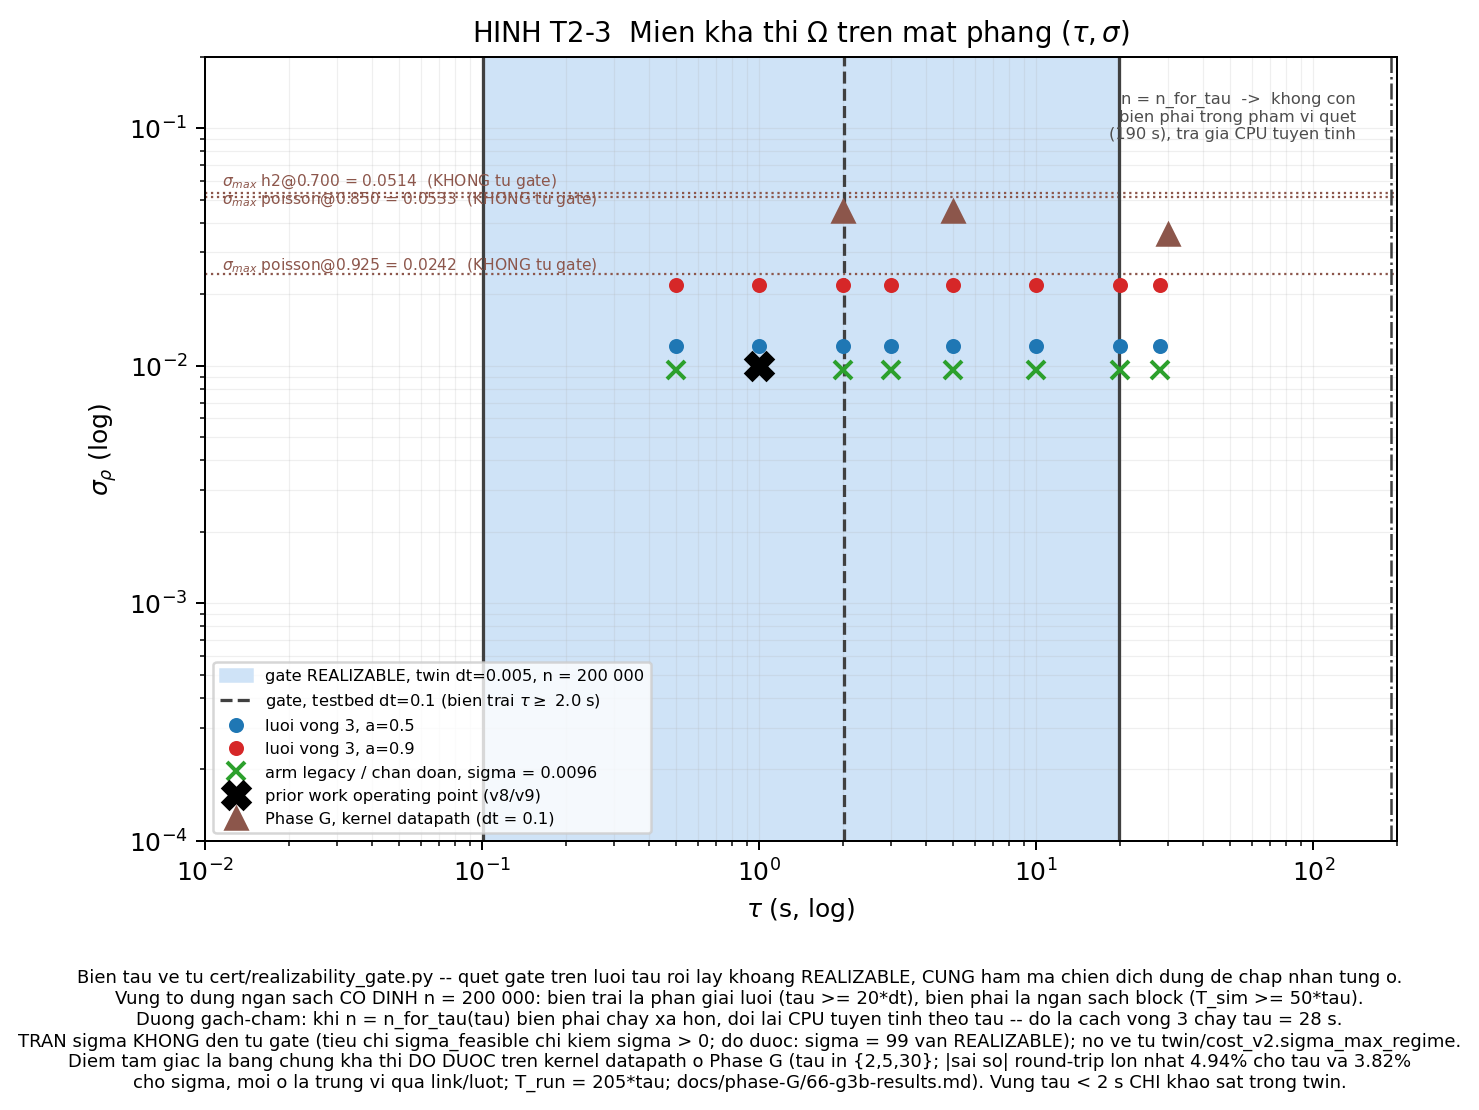
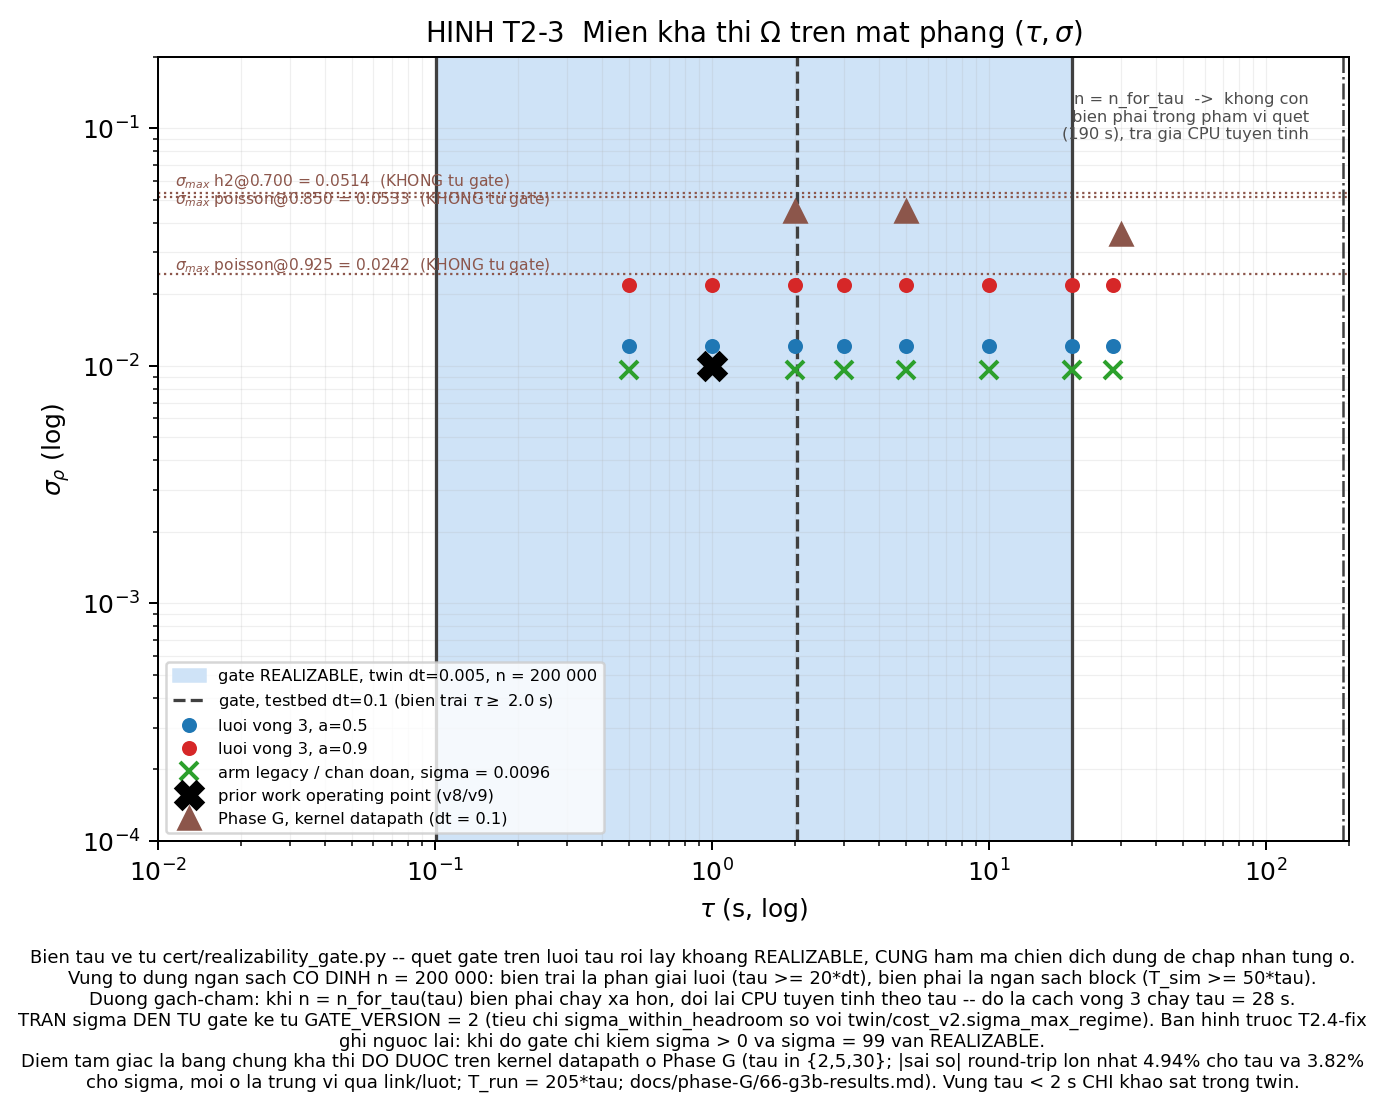
T2.4-fix: gate v2 -- tieu chi headroom that su duoc thuc thi
LOI. `sigma_feasible` chi kiem `sigma > 0`. Vi cert/tau_sweep.py:500 truyen
vao sigma THIET KE (a*sigma_max hoac sigma_override) von luon duong, tieu chi
nay KHONG BAO GIO fail duoc tren duong chay that. Do duoc truoc khi sua:
    (cbr,     rho=0.96,  sigma=0.05) -> REALIZABLE   (sigma_max = 0.0)
    (poisson, rho=0.925, sigma=99.0) -> REALIZABLE
Thong diep `why` nhac toi sigma_max_regime nhung ham do KHONG he duoc goi:
`from twin import cost_v2 as C` la dead import, `grep -c "C\."` = 0.

HE QUA. Bo test cu phu HAI loai tu choi (phan giai dt, ngan sach block); loai
thu BA -- headroom -- chua bao gio duoc viet thanh test, nen tieu chi tuong
ung song ba vong sweep ma khong ai biet no khong hoat dong. prereg:388 dua
vao gate nay de LOAI o ("LOAI moi o bi realizability_gate tu choi").

CHU Y VE TEN: khong co ma cong "G-T2-6" nao trong repo (grep = 0); prereg
dung ma T2.2-1..9 va chi co G-T2-8. Nen day duoc khai la mot KHIEM KHUYET
CUA GATE phat hien sau khi dong phase, KHONG phai mot cong da ky bi truot.

SUA. `sigma_feasible` -> `sigma_within_headroom`, so `0 < sigma <=
sigma_max_regime(mode, rho_bar)`. Tran duoc IMPORT tu MOT nguon qua helper
`_sigma_max_or_nan`, dung chung boi tieu chi va `derived` [W4 ban giao T2].
Doi ten vi ten cu khong noi dung viec no lam [NT 65]. Them GATE_VERSION = 2
va `derived.sigma_max_regime` de artifact TU CHUNG MINH no so voi cai gi.
Docstring dong dinh: `sigma` la GIA TRI THIET KE, khong phai tran -- ban v1
[…]

diff --git a/test/test_t2_realizability_gate.py b/test/test_t2_realizability_gate.py
@@ -12,6 +12,7 @@ import pytest
 
 from cert.realizability_gate import (
     CLIP_MAX,
+    GATE_VERSION,
     OMEGA_MAX,
     gate_grid,
     min_blocks,
@@ -21,6 +22,7 @@ from cert.realizability_gate import (
 )
 from cert.simultaneous_score import ALPHA
 from measurements.sla_calib_v2 import n_for_tau
+from twin.cost_v2 import sigma_max_regime
 
 DT = 0.005
 BASE = dict(mode="poisson", rho_bar=0.925, dt=DT)
@@ -85,9 +87,9 @@ def test_unevaluated_criteria_are_not_silently_passed():
     """
     r = realizability_gate(tau=1.0, n=200_000, **BASE)
     assert r["checks"]["censoring_ok"]["pass"] is None
-    assert r["checks"]["sigma_feasible"]["pass"] is None
+    assert r["checks"]["sigma_within_headroom"]["pass"] is None
     assert r["checks"]["mondrian_cells_populated"]["pass"] is None
-    assert set(r["not_evaluated"]) == {"censoring_ok", "sigma_feasible",
+    assert set(r["not_evaluated"]) == {"censoring_ok", "sigma_within_headroom",
                                        "mondrian_cells_populated"}
 
 
@@ -109,7 +111,7 @@ def test_censoring_and_sigma_are_enforced_when_supplied():
     assert ok["verdict"] == "REALIZABLE"
     bad = realizability_gate(tau=1.0, n=200_000, sigma=0.0,
                              clip_fraction=0.05, **BASE)
-    assert set(bad["failed"]) == {"censoring_ok", "sigma_feasible"}
+    assert set(bad["failed"]) == {"censoring_ok", "sigma_within_headroom"}
     assert CLIP_MAX == 0.01
 
 
@@ -168,3 +170,83 @@ def test_gate_grid_reports_why_cells_were_rejected():
     g = gate_grid(cells, **BASE)
     assert g["n_cells"] == 3 and g["n_rejected"] == 1
     assert g["rejected_by_reason"]["enough_blocks"] == 1
+
+
+# ---------------------------------------------------------------------------
+# T2.4-fix: bon test ghim con thieu cho tieu chi HEADROOM.
+#
+# Bo test cu phu HAI loai tu choi: phan giai (`tau_resolves_dt`) va ngan sach
+# block (`run_covers_tau` / `enough_blocks`). Loai thu BA -- headroom -- chua
+# bao gio duoc viet, nen tieu chi tuong ung song ba vong sweep ma khong ai
+# biet no khong hoat dong: no chi kiem `sigma > 0`, va cert/tau_sweep.py luon
+# truyen vao mot sigma duong.
+#
+# Bon test duoi day la DOI CHUNG DUONG CHO CHINH GATE: chung chung minh gate
+# CO THE do vi dung ly do. Mot gate khong bao gio do duoc thi khong phai gate.
+# ---------------------------------------------------------------------------
+
+def test_headroom_rejects_a_cell_with_no_headroom_left():
+    """(cbr, rho_bar=0.96, sigma=0.05) PHAI bi tu choi.
+
+    Vi sao, suy tu tham so vat ly chu khong tu code:
+        RELIABLE_CEILING["cbr"] = 0.95  <  rho_bar = 0.96
+        => moi link da NAM TREN tran do tin cay ngay ca khi sigma = 0
+        => sigma_max_regime("cbr", 0.96) = 0.0
+        => KHONG co bien do nao hop le. O nay khong sinh duoc.
+    Do duoc TRUOC ban sua: verdict = REALIZABLE, failed = [].
+    """
+    smax = sigma_max_regime("cbr", 0.96)
+    assert smax == 0.0, "tien de cua test doi: RELIABLE_CEILING da bi sua?"
+
+    r = realizability_gate(mode="cbr", rho_bar=0.96, tau=3.0, dt=DT,
+                           n=200_000, sigma=0.05)
+    assert r["verdict"] == "REJECTED", r["checks"]["sigma_within_headroom"]
+    assert "sigma_within_headroom" in r["failed"]
+    # artifact phai TU CHUNG MINH no so voi cai gi, khong bat ai tin ten check
+    assert r["derived"]["sigma_max_regime"] == 0.0
+    assert r["derived"]["gate_version"] == GATE_VERSION
+
+
+def test_a_physically_absurd_sigma_cannot_pass():
+    """Doi chung duong tho: sigma = 99 phai bi chan.
+
+    Truoc ban sua day la ket qua DO DUOC: REALIZABLE. Test nay ton tai de
+    tinh trang do khong quay lai ma khong ai thay.
+    """
+    r = realizability_gate(mode="poisson", rho_bar=0.925, tau=3.0, dt=DT,
+                           n=200_000, sigma=99.0)
+    assert r["verdict"] == "REJECTED"
+    assert "sigma_within_headroom" in r["failed"]
+
+
+def test_headroom_boundary_is_inclusive_above_and_open_below():
+    """Bien tren DONG (sigma <= sigma_max), bien duoi MO (sigma > 0).
+
+    Vi sao dong o tren: sigma = sigma_max la a = 1.0, tuc dung cham tran --
+    van sinh duoc, chi la khong con du tru. Vi sao mo o duoi: sigma = 0
+    khong phai "an toan"; no nghia la HET headroom (sigma_max = 0), dung
+    truong hop cua cbr@0.96.
+    """
+    smax = sigma_max_regime("poisson", 0.925)
+    kw = dict(mode="poisson", rho_bar=0.925, tau=3.0, dt=DT, n=200_000)
+
+    assert realizability_gate(sigma=smax, **kw)["verdict"] == "REALIZABLE"
+    assert realizability_gate(sigma=smax * 1.001, **kw)["verdict"] == "REJECTED"
+    assert realizability_gate(sigma=0.0, **kw)["verdict"] == "REJECTED"
+
+
+def test_the_signed_sigma_axis_of_round_three_stays_inside_headroom():
+    """Truc sigma DA KY cua vong 3 (a in {0.5, 0.9}) phai qua sach.
+
+    Neu test nay do, ban vua lam vo mot phan quyet DA KY -- dung lai va doc
+    lai QD-7, dung noi long tieu chi.
+    """
+    for mode in ("poisson", "h2"):
+        for rb in (0.700, 0.850, 0.925, 0.960):
+            smax = sigma_max_regime(mode, rb)
+            if smax == 0.0:
+                continue                       # o suy bien, loai theo QD-3/QD-7
+            for a in (0.5, 0.9):
+                r = realizability_gate(mode=mode, rho_bar=rb, tau=3.0, dt=DT,
+                                       n=200_000, sigma=a * smax)
+                assert r["verdict"] == "REALIZABLE", (mode, rb, a, r["failed"])

diff --git a/cert/realizability_gate.py b/cert/realizability_gate.py
@@ -36,6 +36,27 @@ from twin import cost_v2 as C
 # V-T2-3, chot o T2.2. Do duoc tren toan luoi: < 0.09% moi o.
 CLIP_MAX = 0.01
 
+# Phien ban NGU NGHIA cua gate. Tang khi mot TIEU CHI doi nghia, khong tang
+# khi chi sua loi chinh ta. v1 -> v2: `sigma_feasible` (chi kiem sigma > 0,
+# mot tieu chi MA) duoc thay bang `sigma_within_headroom` (so voi
+# twin/cost_v2.sigma_max_regime). Moi artifact ghi so nay de mot nguoi doc
+# nam sau biet no duoc phan quyet bang THUOC NAO.
+GATE_VERSION = 2
+
+
+def _sigma_max_or_nan(mode, rho_bar) -> float:
+    """Tran headroom cua o, hoac NaN neu mode khong co trong registry.
+
+    Tach thanh ham vi no duoc dung o HAI cho (tieu chi va `derived`), va hai
+    cho do PHAI cho cung mot so  [W4 ban giao T2: mot nguon, import, khong chep].
+    NaN lam moi phep so sanh thanh False, nen mot mode la se KHONG duoc coi
+    la dat.
+    """
+    try:
+        return float(C.sigma_max_regime(str(mode), float(rho_bar)))
+    except (ValueError, KeyError):
+        return float("nan")
+
 # G-A020 giu mien dau vao 0 <= omega <= 1 sau khi rut truc omega doc lap.
 # Xem docs/phase-G/76-amendment-G-A020-omega-reduction.md muc T2.3.
 OMEGA_MIN, OMEGA_MAX = 0.0, 1.0
@@ -67,6 +88,12 @@ def realizability_gate(
     Tra ve dict co ``verdict`` in {"REALIZABLE", "REJECTED"} va ``checks``
     liet ke tung tieu chi kem so DO DUOC, de mot FAIL luon quy duoc trach
     nhiem cho dung tieu chi.
+
+    ``sigma`` la SIGMA THIET KE cua o (a*sigma_max, hoac sigma tuyet doi cua
+    arm legacy). KHONG phai sigma do duoc, KHONG phai tran. Gate TU tra tran
+    bang ``C.sigma_max_regime(mode, rho_bar)`` va so ``0 < sigma <= tran``.
+    Dong dinh o day de loi "mot ten hai nghia" khong tai phat: ban v1 ngam
+    gia dinh caller truyen vao TRAN, con caller thuc te truyen GIA TRI THIET KE.
 
     ``sigma`` va ``clip_fraction`` la tuy chon: neu khong truyen thi tieu
     chi tuong ung duoc ghi "not_evaluated" chu KHONG duoc coi la PASS.
@@ -101,12 +128,30 @@ def realizability_gate(
         float(omega), "[%g, %g]" % (OMEGA_MIN, OMEGA_MAX),
         "mien dau vao giu nguyen sau khi rut truc omega [G-A020]")
 
+    # --- T2.4-fix: tieu chi headroom, DUNG nhu prereg:388 gia dinh ---------
+    # Ban cu chi kiem `sigma > 0`. Do la mot tieu chi MA: cert/tau_sweep.py
+    # truyen vao sigma THIET KE (a*sigma_max hoac sigma_override), von luon
+    # duong, nen tieu chi KHONG BAO GIO fail duoc tren duong chay that.
+    # Do duoc truoc khi sua: (cbr, 0.96, sigma=0.05) -> REALIZABLE va
+    # (poisson, 0.925, sigma=99.0) -> REALIZABLE. Thong diep `why` cu nhac
+    # sigma_max_regime nhung ham do chua bao gio duoc goi: `from twin import
+    # cost_v2 as C` la dead import, `grep -c "C\."` = 0.
+    # Ten doi vi ten cu khong noi dung viec no lam  [NT 65].
     if sigma is None:
-        checks["sigma_feasible"] = {"pass": None, "got": None,
-                                    "need": "> 0", "why": "not_evaluated"}
+        checks["sigma_within_headroom"] = {
+            "pass": None, "got": None,
+            "need": "0 < sigma <= sigma_max_regime(mode, rho_bar)",
+            "why": "not_evaluated"}
     else:
-        add("sigma_feasible", float(sigma) > 0.0, float(sigma), "> 0",
-            "sigma_max_regime = 0 nghia la het headroom den tran do tin cay")
+        sigma_max = _sigma_max_or_nan(mode, rho_bar)
+        add("sigma_within_headroom",
+            0.0 < float(sigma) <= sigma_max,
+            float(sigma),
+            "in (0, %.6g]" % sigma_max,
+            "sigma > sigma_max_regime: o vuot TRAN DO TIN CAY cua traffic "
+            "family (RELIABLE_CEILING) hoac cham san RHO_MIN => rho(t) bi kep "
+            "lien tuc va sigma_hat/tau_hat deu lech. sigma = 0 nghia la het "
+            "headroom hoan toan (vi du cbr o rho_bar = 0.96).")
 
     if clip_fraction is None:
         checks["censoring_ok"] = {"pass": None, "got": None,
@@ -139,7 +184,11 @@ def realizability_gate(
                     "blocks_per_seed": blocks_per_seed,
                     "cycles": (t_sim / tau) if tau > 0 else float("nan"),
                     "min_blocks": mb,
-                    "blocks_per_tau": BLOCKS_PER_TAU},
+                    "blocks_per_tau": BLOCKS_PER_TAU,
+                    # tran headroom, DOC TU nguon, de artifact TU CHUNG MINH
+                    # no da so voi cai gi -- khong bat ai tin vao ten mot check
+                    "sigma_max_regime": _sigma_max_or_nan(mode, rho_bar),
+                    "gate_version": GATE_VERSION},
         "checks": checks,
         "failed": failed,
         "not_evaluated": not_eval,

diff --git a/tools/t2_6b_figures.py b/tools/t2_6b_figures.py
@@ -175,11 +175,15 @@ def _tau_window(dt: float, n_rule, sigma=0.02, taus=None):
 def fig3(runs):
     """Bien VE TU realizability_gate(), khong go lai bat dang thuc.
 
-    !! Gate KHONG chan tren theo sigma: tieu chi sigma_feasible chi kiem
-       sigma > 0 (do duoc: sigma = 99.0 van REALIZABLE). Nen tran sigma o
-       hinh nay ve RIENG tu twin/cost_v2.sigma_max_regime va PHAI duoc chu
-       thich la khong den tu gate. Ve no nhu mot bien cua gate la noi doi
-       bang hinh.
+    Sau ban sua T2.4-fix (GATE_VERSION = 2), gate CO chan tren theo sigma:
+    tieu chi `sigma_within_headroom` so sigma voi
+    twin/cost_v2.sigma_max_regime(mode, rho_bar). Nen CA HAI bien cua hinh
+    nay -- bien tau va tran sigma -- deu ve tu cung mot ham phan quyet.
+
+    (Lich su: ban v1 co tieu chi ten `sigma_feasible` chi kiem `sigma > 0`;
+     do duoc khi do: sigma = 99 van REALIZABLE. Chu thich cu ghi "TRAN sigma
+     KHONG den tu gate" -- DUNG voi v1, SAI voi v2. Giu ghi chu nay de mot
+     nguoi doc ban hinh cu khong tuong hai ban mau thuan nhau.)
     """
     import cert.build_calib_set_v3 as V3
 
@@ -237,7 +241,8 @@ def fig3(runs):
              "Bien tau ve tu cert/realizability_gate.py -- quet gate tren luoi tau roi lay khoang REALIZABLE, CUNG ham ma chien dich dung de chap nhan tung o.\n"
              "Vung to dung ngan sach CO DINH n = 200 000: bien trai la phan giai luoi (tau >= 20*dt), bien phai la ngan sach block (T_sim >= 50*tau).\n"
              "Duong gach-cham: khi n = n_for_tau(tau) bien phai chay xa hon, doi lai CPU tuyen tinh theo tau -- do la cach vong 3 chay tau = 28 s.\n"
-             "TRAN sigma KHONG den tu gate (tieu chi sigma_feasible chi kiem sigma > 0; do duoc: sigma = 99 van REALIZABLE); no ve tu twin/cost_v2.sigma_max_regime.\n"
+             "TRAN sigma DEN TU gate ke tu GATE_VERSION = 2 (tieu chi sigma_within_headroom so voi twin/cost_v2.sigma_max_regime). Ban hinh truoc T2.4-fix\n"
+             "ghi nguoc lai: khi do gate chi kiem sigma > 0 va sigma = 99 van REALIZABLE.\n"
              "Diem tam giac la bang chung kha thi DO DUOC tren kernel datapath o Phase G (tau in {2,5,30}; |sai so| round-trip lon nhat 4.94% cho tau va 3.82%\n"
              "cho sigma, moi o la trung vi qua link/luot; T_run = 205*tau; docs/phase-G/66-g3b-results.md). Vung tau < 2 s CHI khao sat trong twin.",
              ha="center", fontsize=7.2)
